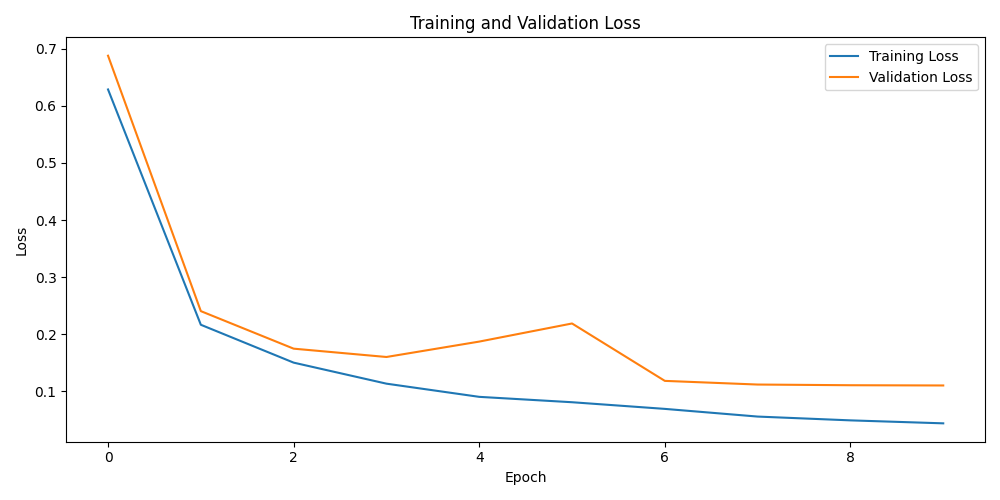
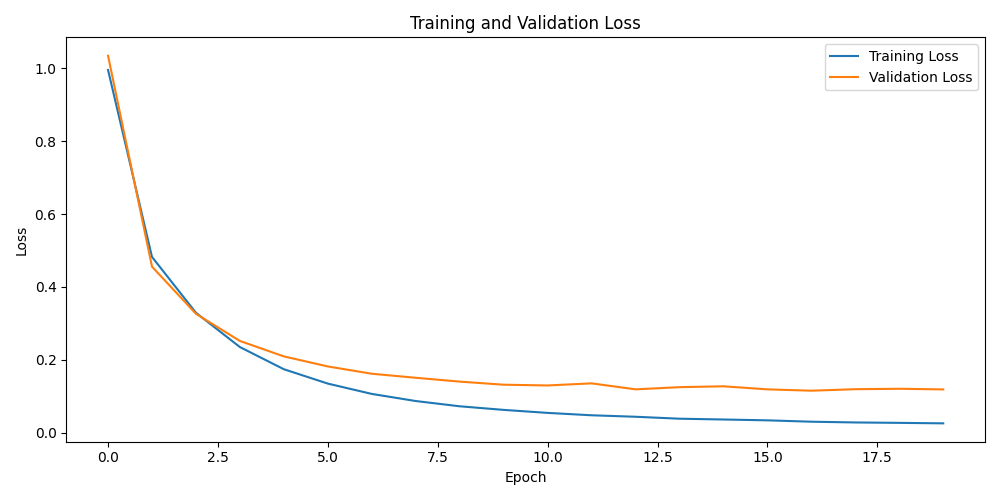
Addition of more images, and updates to the README
Added a small line about reproducability, as well as updated the readme to include images of the masks.

Added the images of the masks.

Updated the graph of loss and values from prediction DICE Scores with new Epochs=20 model trained.

diff --git a/recognition/HipMRI_Segmentation_48819099/README.md b/recognition/HipMRI_Segmentation_48819099/README.md
@@ -53,6 +53,8 @@ The model has been trained with the following hyperparameters:
 - Img Size = 256, 128
 - Batch Size = 64 (a good mix pick between taking too long to train, and exceeding memory availability, as well as training generalisation)
 
+Reproducability of results is very high, after running multiple times I have not had a result that differs significantly than previous. There is a little bit of chance that the model can get stuck at a local minima, but the choice of learning rate, optimiser etc. all try to negate any of these effects.
+
 ## How to use
 ### Dependencies: 
 - Python (3.13.7)
@@ -82,18 +84,20 @@ The model has been trained with the following hyperparameters:
 
 ## Test Results
 
-### Example Input/Ground Truth Mask/Predicted Mask
-
-![Example Input/Ground Truth Mask/Predicted Mask Image](input_groundtruth_prediction.png)
-
 ### DICE Scores over Mean + Classes
 
 | Metric | Value |
 |---|---|
-| Mean Dice across all Classes | 0.9152 |
-| Class 0 Dice Score | 0.9965 |
-| Class 1 Dice Score | 0.9822 |
-| Class 2 Dice Score | 0.9267 |
-| Class 3 Dice Score | 0.9603 |
-| Class 4 Dice Score | 0.7855 |
-| Class 5 Dice Score | 0.8399 |
+| Mean Dice across all Classes | 0.9078 |
+| Class 0 Dice Score | 0.9969 |
+| Class 1 Dice Score | 0.9816 |
+| Class 2 Dice Score | 0.9253 |
+| Class 3 Dice Score | 0.9516 |
+| Class 4 Dice Score | 0.7703 |
+| Class 5 Dice Score | 0.8209 |
+
+### Example Input/Ground Truth Mask/Predicted Mask Visualisation
+
+![Example 1 Input/Ground Truth Mask/Predicted Mask Image](input_groundtruth_prediction.png)
+
+![Example 2 Input/Ground Truth Mask/Predicted Mask Image](input_groundtruth_prediction2.png)
